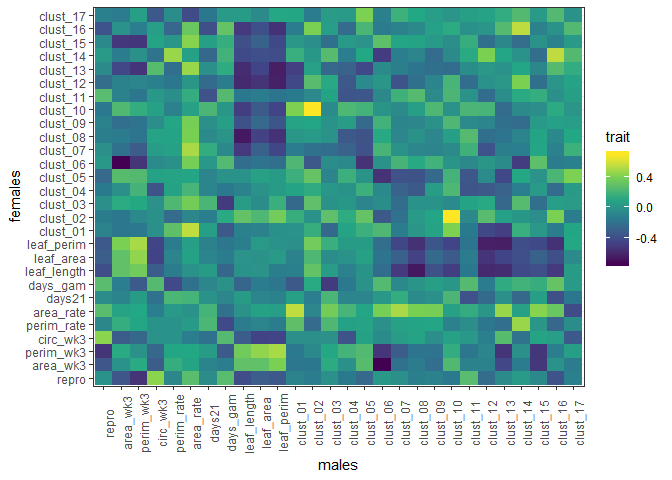
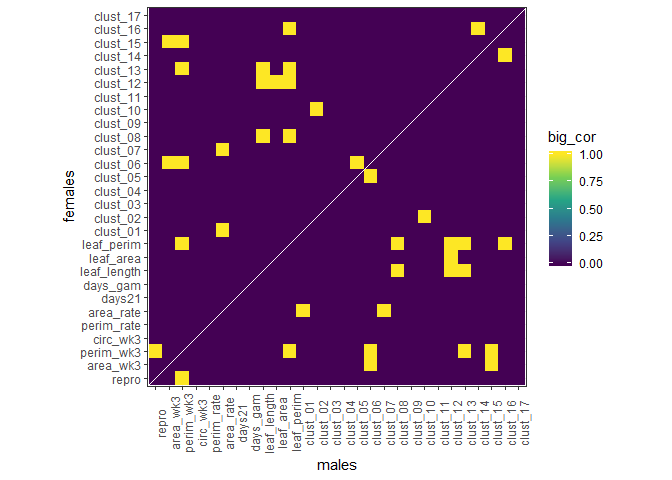
final figs

diff --git a/Rmds/Evolution_figures.md b/Rmds/Evolution_figures.md
@@ -20,9 +20,9 @@ Javiera Rudolph
               - [Option 1](#option-1)
               - [Option 2](#option-2)
       - [Subtracted matrix](#subtracted-matrix)
-  - [Relationship between VOC clusters and the life history traits such
-    as
-    leafs](#relationship-between-voc-clusters-and-the-life-history-traits-such-as-leafs)
+  - [Relationship between VOC clusters and the life history
+    traits](#relationship-between-voc-clusters-and-the-life-history-traits)
+      - [Males](#males)
 
 # VOCs data
 
@@ -232,9 +232,24 @@ that there is no correlation…
 
 ## Subtracted matrix
 
+Basically, taking the trait correlation matrix for males and subtracting
+the values of the female correlation matrix. So, the result is not
+really a correlation matrix, it is showing differences in correlation
+coefficients between males and females.
+
 ![](Evolution_figures_files/figure-gfm/unnamed-chunk-11-1.png)<!-- -->
 
 Also can do it with ggplot
 ![](Evolution_figures_files/figure-gfm/unnamed-chunk-12-1.png)<!-- -->
 
-# Relationship between VOC clusters and the life history traits such as leafs
+# Relationship between VOC clusters and the life history traits
+
+## Males
+
+1.  Cluster 6 and area at week 3
+    ![](Evolution_figures_files/figure-gfm/unnamed-chunk-13-1.png)<!-- -->![](Evolution_figures_files/figure-gfm/unnamed-chunk-13-2.png)<!-- -->![](Evolution_figures_files/figure-gfm/unnamed-chunk-13-3.png)<!-- -->
+
+Figure for
+males
+
+![](Evolution_figures_files/figure-gfm/unnamed-chunk-14-1.png)<!-- -->![](Evolution_figures_files/figure-gfm/unnamed-chunk-14-2.png)<!-- -->![](Evolution_figures_files/figure-gfm/unnamed-chunk-14-3.png)<!-- -->![](Evolution_figures_files/figure-gfm/unnamed-chunk-14-4.png)<!-- -->
